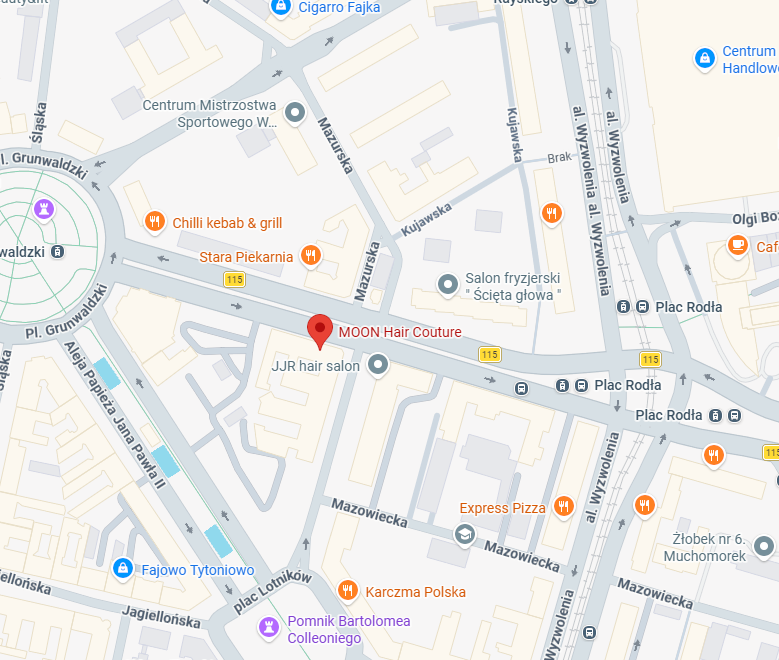
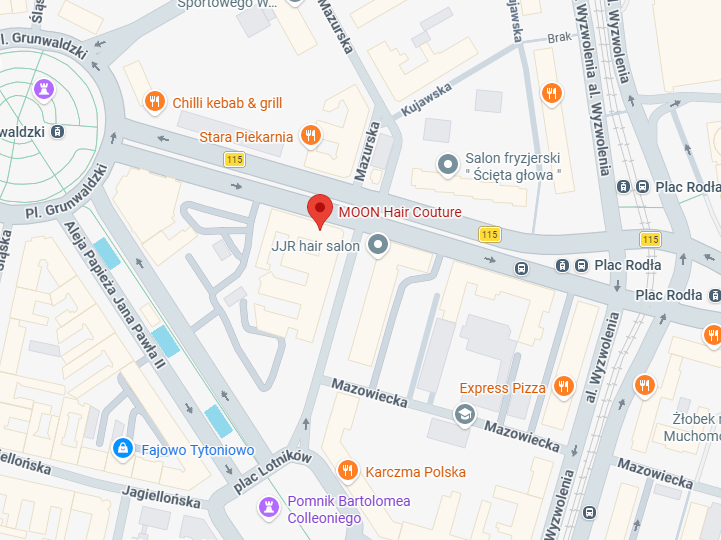
Add files via upload

diff --git a/index.html b/index.html
@@ -48,7 +48,7 @@
             </div>
             <div class="hero-image">
                 <!-- Tu wstaw zdjęcie pani Eweliny (np. hero-photo.jpg) -->
-                <img src="img/PanieEwelina.png" alt="Ewelina Mejza Clinic">
+                <img src="img/PaniEwelina.jpg" alt="Ewelina Mejza Clinic">
             </div>
         </div>
     </section>
